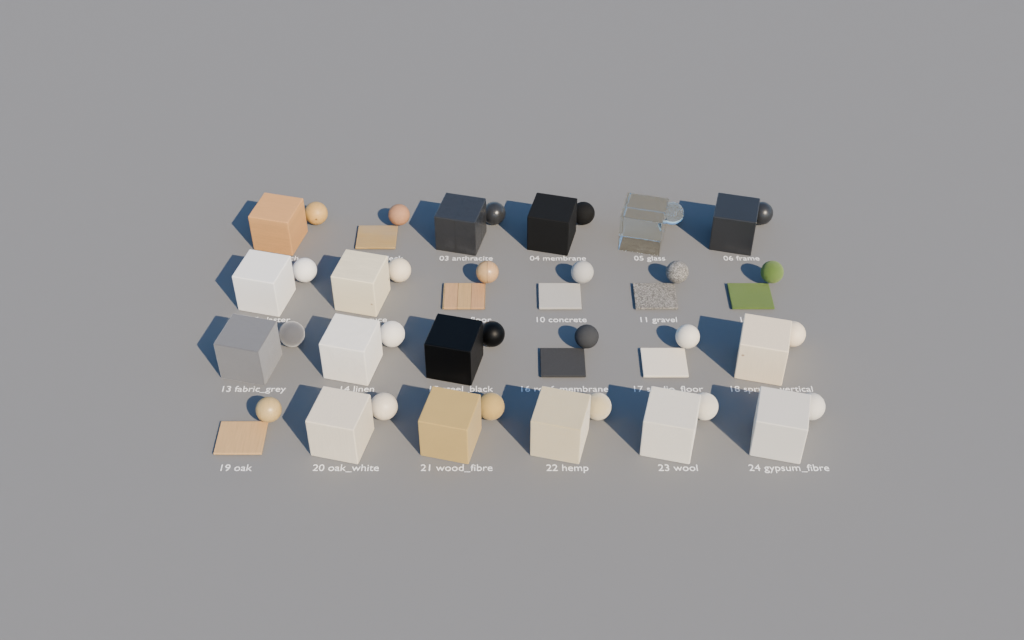
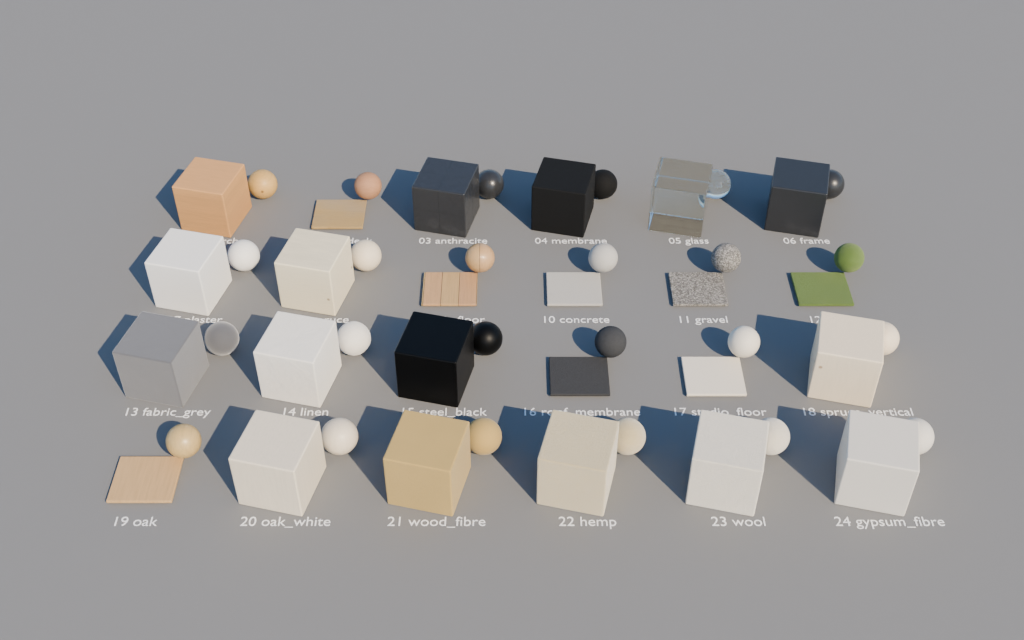
EcoDomček Cycles: geometry test render (work in progress)
Claude-Session: https://claude.ai/code/session_01RoUfwoxLBTjqwMZz2oNVv8

Changed region(s): [[0.0938, 0.25, 0.9375, 0.8438], [0.0938, 0.5, 0.125, 0.5938]]

diff --git a/clients/ecodomcek/cycles/materials.py b/clients/ecodomcek/cycles/materials.py
@@ -1111,7 +1111,7 @@ def _test_scene(names_to_show, cols):
     scene.camera = cam
     aspect = 1.6
     hfov = 2 * math.atan(aspect * math.tan(math.radians(fov) / 2))
-    dist = max((width * 0.5 + 0.1) / math.tan(hfov / 2), (depth * 0.5 + 0.4) / math.tan(math.radians(fov) / 2) * 1.35)
+    dist = max((width * 0.5 + 0.25) / math.tan(hfov / 2), (depth * 0.5 + 0.6) / math.tan(math.radians(fov) / 2) * 0.95)
     elev = math.radians(42.0)
     target = (0.0, 0.0, 0.12)
     cam.location = (0.0, target[1] + dist * math.cos(elev), target[2] + dist * math.sin(elev))
